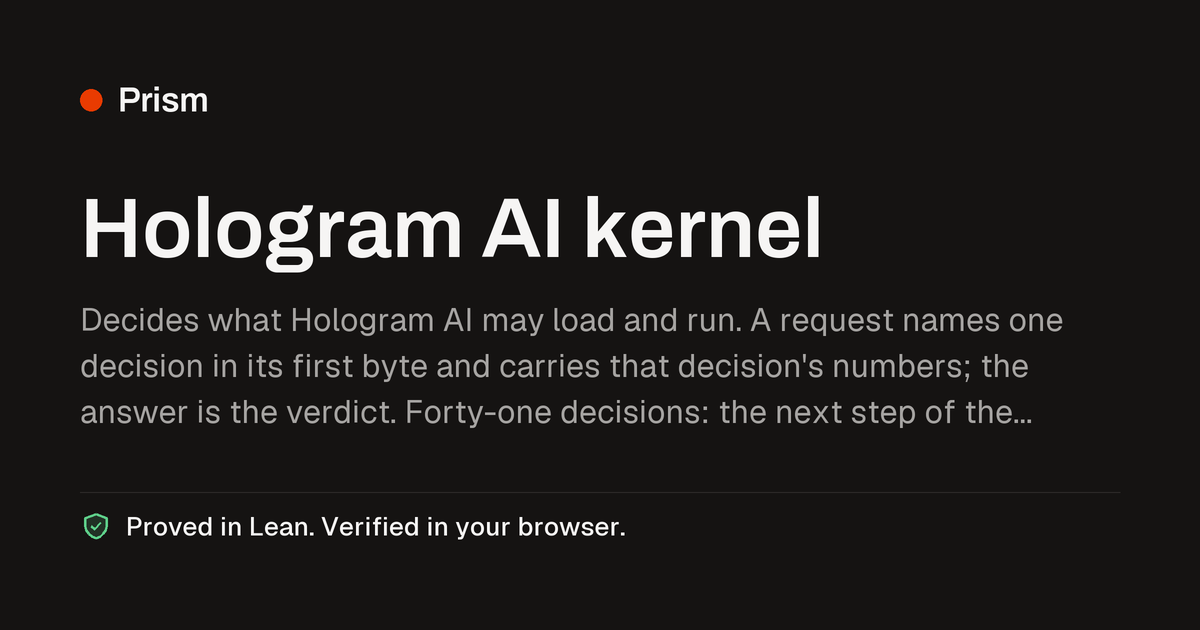
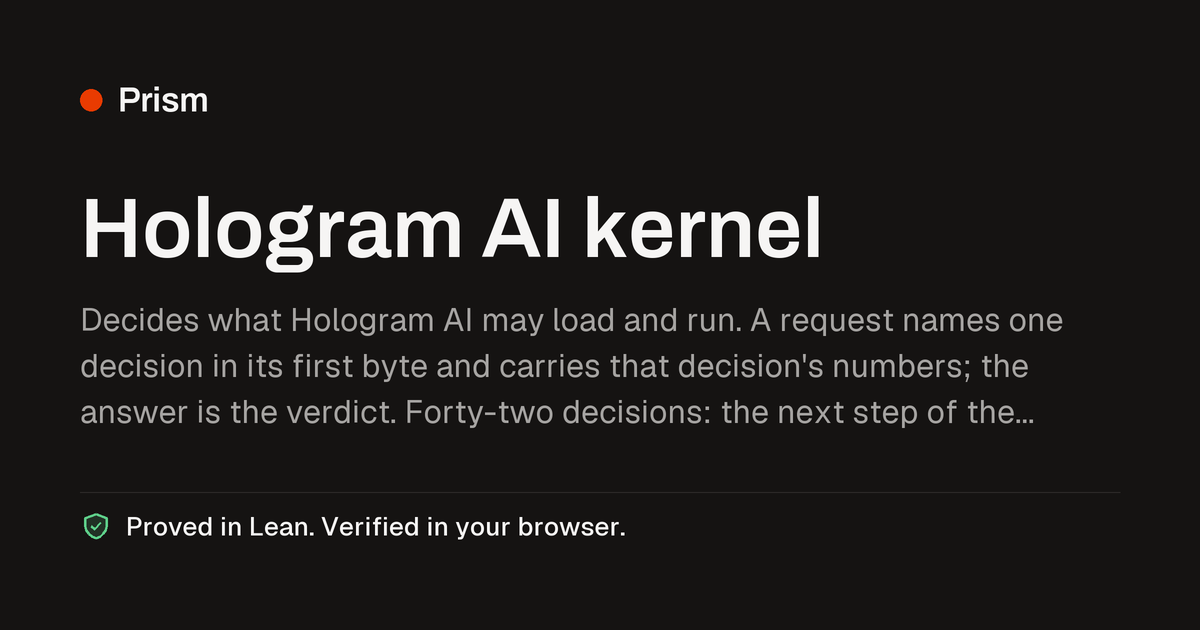
Decide the integer square root in the kernel (KN-43, decision 43)
RMS and layer norms divide by a floor square root, which is exact on
integers. Decision 43 takes a value below 2^62 and a claimed root below 2^31
in 13 bytes and answers exact when root^2 <= value < (root + 1)^2;
root_ok_decides proves that is all it accepts. The bounds are checked before
any square is formed, so no number passes 64 bits. Uniqueness of the root
needs products of two variables and is argued, not stated.

Changed region(s): [[0.4008, 0.6333, 0.8633, 0.6937]]

diff --git a/site/card.html b/site/card.html
@@ -44,6 +44,7 @@
     <option value="38">39. Declared narrowing</option>
     <option value="39">40. Row recombination</option>
     <option value="40">41. Requantised inputs</option>
+    <option value="41">43. Square root</option>
   </select>
   <p id="asks" class="asks">May this step be taken, and where does it lead?</p>
   <div id="fields" class="fields">
@@ -2768,6 +2769,27 @@
       "module": "Requant",
       "name": "Requantised inputs",
       "tag": 41
+    },
+    {
+      "asks": "Is this the floor square root of this value?",
+      "fields": [
+        {
+          "at": 1,
+          "name": "Value",
+          "value": 1000000,
+          "width": 8
+        },
+        {
+          "at": 9,
+          "name": "Claimed root",
+          "value": 1000,
+          "width": 4
+        }
+      ],
+      "length": 13,
+      "module": "Root",
+      "name": "Square root",
+      "tag": 43
     }
   ],
   "request": 81

diff --git a/app/src/Kernel.lex.tex b/app/src/Kernel.lex.tex
@@ -45,13 +45,14 @@
 \importmodule{Kernel.Trim}
 \importmodule{Kernel.Address}
 \importmodule{Kernel.Integer}
+\importmodule{Kernel.Root}
 \title{Text application model}
 \begin{semanticmodule}
 definition{
   name: route,
   parameters: [tag : Nat, value : Bytes],
   result: Bytes,
-  body: (if (tag <=? 17) then (if (tag =? 5) then (Kernel.Admission::admissionAnswer value) else (if (tag =? 6) then (Kernel.Range::rangeAnswer value) else (if (tag =? 8) then (Kernel.Bucket::bucketAnswer value) else (if (tag =? 9) then (Kernel.Generation::generationAnswer value) else (if (tag =? 2) then (Kernel.Preflight::preflightAnswer value) else (if (tag =? 4) then (Kernel.Tier::tierAnswer value) else (if (tag =? 11) then (Kernel.Shape::shapeAnswer value) else (if (tag =? 7) then (Kernel.Trim::trimAnswer value) else (if (tag =? 3) then (Kernel.Plan::planAnswer value) else (if (tag =? 1) then (Kernel.Journey::journeyAnswer value) else (if (tag =? 10) then (Kernel.Operators::operatorAnswer value) else (if (tag =? 12) then (Kernel.Backend::backendAnswer value) else (if (tag =? 13) then (Kernel.Blocks::blockAnswer value) else (if (tag =? 14) then (Kernel.Pick::pickAnswer value) else (if (tag =? 15) then (Kernel.Penalty::penaltyAnswer value) else (if (tag =? 16) then (Kernel.Speculate::speculateAnswer value) else (if (tag =? 17) then (Kernel.Quant::quantAnswer value) else (prim utf8_encode "invalid request" : Bytes)))))))))))))))))) else (if (tag =? 18) then (Kernel.Opnames::opnameAnswer value) else (if (tag =? 19) then (Kernel.Family::familyAnswer value) else (if (tag =? 20) then (Kernel.Nbits::nbitsAnswer value) else (if (tag =? 21) then (Kernel.Precision::precisionAnswer value) else (if (tag =? 22) then (Kernel.Device::deviceAnswer value) else (if (tag =? 23) then (Kernel.Chunks::chunkAnswer value) else (if (tag =? 24) then (Kernel.Source::sourceAnswer value) else (if (tag =? 25) then (Kernel.Stop::stopAnswer value) else (if (tag =? 26) then (Kernel.Evict::evictAnswer value) else (if (tag =? 27) then (Kernel.Reuse::reuseAnswer value) else (if (tag =? 28) then (Kernel.Manifest::manifestAnswer value) else (if (tag =? 29) then (Kernel.Exact::exactAnswer value) else (if (tag =? 30) then (Kernel.Determinism::classAnswer value) else (if (tag =? 31) then (Kernel.Receipt::receiptAnswer value) else (if (tag =? 32) then (Kernel.Probe::probeAnswer value) else (if (tag =? 33) then (Kernel.Share::shareAnswer value) else (if (tag =? 34) then (Kernel.Block::blockCheckAnswer value) else (if (tag =? 35) then (Kernel.Address::addressAnswer value) else (if (tag =? 36) then (Kernel.Integer::integerAnswer value) else (if (tag =? 37) then (Kernel.Scale::scaleAnswer value) else (if (tag =? 38) then (Kernel.Codec::codecAnswer value) else (if (tag =? 39) then (Kernel.Narrow::narrowAnswer value) else (if (tag =? 40) then (Kernel.Rows::rowsAnswer value) else (if (tag =? 41) then (Kernel.Requant::rqAnswer value) else (prim utf8_encode "invalid request" : Bytes)))))))))))))))))))))))))),
+  body: (if (tag <=? 17) then (if (tag =? 5) then (Kernel.Admission::admissionAnswer value) else (if (tag =? 6) then (Kernel.Range::rangeAnswer value) else (if (tag =? 8) then (Kernel.Bucket::bucketAnswer value) else (if (tag =? 9) then (Kernel.Generation::generationAnswer value) else (if (tag =? 2) then (Kernel.Preflight::preflightAnswer value) else (if (tag =? 4) then (Kernel.Tier::tierAnswer value) else (if (tag =? 11) then (Kernel.Shape::shapeAnswer value) else (if (tag =? 7) then (Kernel.Trim::trimAnswer value) else (if (tag =? 3) then (Kernel.Plan::planAnswer value) else (if (tag =? 1) then (Kernel.Journey::journeyAnswer value) else (if (tag =? 10) then (Kernel.Operators::operatorAnswer value) else (if (tag =? 12) then (Kernel.Backend::backendAnswer value) else (if (tag =? 13) then (Kernel.Blocks::blockAnswer value) else (if (tag =? 14) then (Kernel.Pick::pickAnswer value) else (if (tag =? 15) then (Kernel.Penalty::penaltyAnswer value) else (if (tag =? 16) then (Kernel.Speculate::speculateAnswer value) else (if (tag =? 17) then (Kernel.Quant::quantAnswer value) else (prim utf8_encode "invalid request" : Bytes)))))))))))))))))) else (if (tag =? 18) then (Kernel.Opnames::opnameAnswer value) else (if (tag =? 19) then (Kernel.Family::familyAnswer value) else (if (tag =? 20) then (Kernel.Nbits::nbitsAnswer value) else (if (tag =? 21) then (Kernel.Precision::precisionAnswer value) else (if (tag =? 22) then (Kernel.Device::deviceAnswer value) else (if (tag =? 23) then (Kernel.Chunks::chunkAnswer value) else (if (tag =? 24) then (Kernel.Source::sourceAnswer value) else (if (tag =? 25) then (Kernel.Stop::stopAnswer value) else (if (tag =? 26) then (Kernel.Evict::evictAnswer value) else (if (tag =? 27) then (Kernel.Reuse::reuseAnswer value) else (if (tag =? 28) then (Kernel.Manifest::manifestAnswer value) else (if (tag =? 29) then (Kernel.Exact::exactAnswer value) else (if (tag =? 30) then (Kernel.Determinism::classAnswer value) else (if (tag =? 31) then (Kernel.Receipt::receiptAnswer value) else (if (tag =? 32) then (Kernel.Probe::probeAnswer value) else (if (tag =? 33) then (Kernel.Share::shareAnswer value) else (if (tag =? 34) then (Kernel.Block::blockCheckAnswer value) else (if (tag =? 35) then (Kernel.Address::addressAnswer value) else (if (tag =? 36) then (Kernel.Integer::integerAnswer value) else (if (tag =? 37) then (Kernel.Scale::scaleAnswer value) else (if (tag =? 38) then (Kernel.Codec::codecAnswer value) else (if (tag =? 39) then (Kernel.Narrow::narrowAnswer value) else (if (tag =? 40) then (Kernel.Rows::rowsAnswer value) else (if (tag =? 41) then (Kernel.Requant::rqAnswer value) else (if (tag =? 43) then (Kernel.Root::rootAnswer value) else (prim utf8_encode "invalid request" : Bytes))))))))))))))))))))))))))),
   axioms: [Quot.sound, propext]
 }
 

diff --git a/crates/conformance/tests/kernel.rs b/crates/conformance/tests/kernel.rs
@@ -3224,7 +3224,7 @@ fn kernel_kn_41() {
     assert_routed(41, "Kernel.Requant::rqAnswer");
 }
 
-/// `KN-43`: A claimed integer square root of a value of up to 128 bits is confirmed exactly when its square is at most the value and the next square is above it, so a norm divides by the value's one floor root
+/// `KN-43`: A claimed integer square root of a value below 2^62 is confirmed exactly when its square is at most the value and the next square is above it, so a norm divides by the value's one floor root
 #[test]
 fn kernel_kn_43() {
     assert_proofs_are_gated();
@@ -3233,13 +3233,7 @@ fn kernel_kn_43() {
     assert_pinned(
         &proofs,
         "root_ok_decides",
-        "(((Kernel.Root::rootOk value root) = true) <-> (((Kernel.Root::rootSquare root) <= value) /\\ (value < (((Kernel.Root::rootSquare root) + (root + root)) + 1))))",
-        "propext",
-    );
-    assert_pinned(
-        &proofs,
-        "root_square_next",
-        "((Kernel.Root::rootSquare (root + 1)) = (((Kernel.Root::rootSquare root) + (root + root)) + 1))",
+        "(((Kernel.Root::rootOk value root) = true) <-> (((Kernel.Root::rootSquare root) <= value) /\\ (value < (Kernel.Root::rootSquare (root + 1)))))",
         "propext",
     );
     let found = declaration(&kernel, "rootSquare");
@@ -3249,12 +3243,14 @@ fn kernel_kn_43() {
     );
     let found = declaration(&kernel, "rootOk");
     assert!(
-        found.contains("body: (((rootSquare root) <=? value) && (value <? (((rootSquare root) + (root + root)) + 1)))"),
+        found.contains(
+            "body: (((rootSquare root) <=? value) && (value <? (rootSquare (root + 1))))"
+        ),
         "rootOk changed:\n{found}"
     );
     let found = declaration(&kernel, "rootAnswer");
     assert!(
-        found.contains("body: (if ((Foundation.Bytes::byteLength value) =? 25) then (if (rootOk (Kernel.Wire::fieldAt value 1 16) (Kernel.Wire::fieldAt value 17 8)) then (prim utf8_encode \"exact\" : Bytes) else (prim utf8_encode \"differs\" : Bytes)) else (prim utf8_encode \"invalid request\" : Bytes))"),
+        found.contains("body: (if ((((Foundation.Bytes::byteLength value) =? 13) && ((Kernel.Wire::fieldAt value 1 8) <? 4611686018427387904)) && ((Kernel.Wire::fieldAt value 9 4) <? 2147483648)) then (if (rootOk (Kernel.Wire::fieldAt value 1 8) (Kernel.Wire::fieldAt value 9 4)) then (prim utf8_encode \"exact\" : Bytes) else (prim utf8_encode \"differs\" : Bytes)) else (prim utf8_encode \"invalid request\" : Bytes))"),
         "rootAnswer changed:\n{found}"
     );
     assert_routed(43, "Kernel.Root::rootAnswer");

diff --git a/app/src/Kernel/Root.lex.tex b/app/src/Kernel/Root.lex.tex
@@ -1,0 +1,31 @@
+\begin{lexlean}{Kernel.Root}
+\useglossary{lexlean.std.bool@1.2.0}
+\useglossary{lexlean.std.nat@1.2.0}
+\useglossary{prism.arch@1.0.0}
+\importmodule{Foundation.Bytes}
+\importmodule{Kernel.Wire}
+\title{Bounded byte buffer}
+\begin{semanticmodule}
+definition{
+  name: rootSquare,
+  parameters: [root : Nat],
+  result: Nat,
+  body: (prim multiply root root : Nat)
+}
+
+definition{
+  name: rootOk,
+  parameters: [value : Nat, root : Nat],
+  result: Bool,
+  body: (((rootSquare root) <=? value) && (value <? (rootSquare (root + 1))))
+}
+
+definition{
+  name: rootAnswer,
+  parameters: [value : Bytes],
+  result: Bytes,
+  body: (if ((((Foundation.Bytes::byteLength value) =? 13) && ((Kernel.Wire::fieldAt value 1 8) <? 4611686018427387904)) && ((Kernel.Wire::fieldAt value 9 4) <? 2147483648)) then (if (rootOk (Kernel.Wire::fieldAt value 1 8) (Kernel.Wire::fieldAt value 9 4)) then (prim utf8_encode "exact" : Bytes) else (prim utf8_encode "differs" : Bytes)) else (prim utf8_encode "invalid request" : Bytes)),
+  axioms: [Quot.sound, propext]
+}
+\end{semanticmodule}
+\end{lexlean}

diff --git a/app/src/Proofs/Root.lex.tex b/app/src/Proofs/Root.lex.tex
@@ -1,0 +1,16 @@
+\begin{lexlean}{Proofs.Root}
+\useglossary{lexlean.std.bool@1.2.0}
+\useglossary{lexlean.std.nat@1.2.0}
+\useglossary{prism.arch@1.0.0}
+\importmodule{Kernel.Root}
+\title{Bounded byte buffer}
+\begin{semanticmodule}
+theorem{
+  name: root_ok_decides,
+  parameters: [value : Nat, root : Nat],
+  statement: (((Kernel.Root::rootOk value root) = true) <-> (((Kernel.Root::rootSquare root) <= value) /\ (value < (Kernel.Root::rootSquare (root + 1))))),
+  proof: linear_arithmetic{definitions: [Kernel.Root::rootOk]},
+  axioms: [propext]
+}
+\end{semanticmodule}
+\end{lexlean}

diff --git a/KERNEL-VERIFICATION.md b/KERNEL-VERIFICATION.md
@@ -98,6 +98,9 @@ The inherited gates and their own planted defects are in
 | The quotient witness is the input's quotient by the step | the guest checks `q * step <= value < q * step + step`, so a wrong witness is refused; that this pins `q` uniquely is the division algorithm, not stated as a theorem, because the product is not linear | argued, not proved |
 | `rqDownCode` (the code as a function of input and step) gives the code the check accepts | not stated: it needs quotient and remainder facts for a variable divisor, outside `linear_arithmetic`; EN-39 (branch `exact-codecs`) checks, for every input it writes, that the code is `rqDownCode`'s, passes the transcribed `rqElementOk`, and is `quantise_with`'s | tested, not proved |
 | No number decision 41 computes passes 64 bits | the guards in `rqElementOk` and `rqLargest` (mantissa below `2^24`, quotient at most 32767, a down shift at most 39 and an up shift at most 15, each inside an `if` so no product is formed before them), pinned by `kernel_kn_41` | tested, not proved |
+| `KN-43`: a claimed root is `exact` exactly when its square is at most the value and the value is below the square of the root plus one, which defines the floor square root | `root_ok_decides`, checked by Lean on the hosted verifier | proved (hosted verifier) |
+| At most one root is accepted for a value | squares grow with the root, so two accepted roots are equal; this needs products of two variables, outside `linear_arithmetic`, and `simplify` may not unfold the runtime's product, so it is argued, not stated as a theorem | argued, not proved |
+| No number decision 43 computes passes 64 bits | the guard in `rootAnswer`: a value below `2^62` and a root below `2^31`, checked before any square is formed, so `(root + 1)^2` is at most `2^62` | pinned by `kernel_kn_43` |
 | Decision 41 answers as its definition does in the compiled guest | not run: building a holo on this machine has moved to `prism-code build --remote github`, which pushes | not tested |
 | Decisions 38 and 39 answer their examples in the compiled guest | none are replayed, for the reason given for decisions 18 to 28 | not tested |
 | Decisions 18 to 28 answer their examples in the compiled guest | none are replayed: the application's example list is at the nesting depth the proof language reads (108 examples), as it was for decisions 12 to 17. The answers were worked by a second implementation outside the repository and are not gate evidence | not tested |
@@ -1193,6 +1196,30 @@ day on the hosted verifier, the whole of `Kernel.Requant` and `Proofs.Requant`,
 | --- | --- |
 | an input just past half a step counted down to `q + 1` and the up case widened to `<=` | rejected: `Lean rejected ... Proofs.Requant (error): omega could not prove the goal`, in `rq_down_half_step` and `rq_down_one_code` |
 | the largest-power check made `<=` | rejected: the same, in `rq_largest_down_decides` |
+
+## KN-43, the integer square root
+
+RMS and layer norms divide by a square root. On integers the floor square root
+is exact, so decision 43 checks it as exact rather than admitting it as a
+narrowing. A 13-byte request carries a value (8 bytes, below `2^62`) and a
+claimed root (4 bytes, below `2^31`). The answer is `exact` when
+`root^2 <= value < (root + 1)^2`, `differs` otherwise, and `invalid request`
+for any other length or a number past its bound.
+
+The bound is written as the square of `root + 1`, not as
+`root^2 + 2 root + 1`. The second form needs `(r + 1)^2` expanded, which
+`simplify` cannot do because it may not unfold the runtime's product, so a
+theorem tying the two was not provable here. With the next root's square
+written directly, `root_ok_decides` is linear in the two squares.
+
+### The pinned test: `kernel_kn_43`
+
+| Planted defect | Result |
+| --- | --- |
+| a value equal to the next square accepted (`<=?` for `<?`) | rejected: `rootOk changed` |
+| a root up to `2^32` admitted, past the 64-bit guard | rejected: `rootAnswer changed` |
+| decision 43 routed to decision 41's answer | rejected: `decision 43 must be routed to Kernel.Root::rootAnswer` |
+| none | passed |
 
 ## The examples in the compiled guest
 

diff --git a/CONFORMANCE.md b/CONFORMANCE.md
@@ -139,7 +139,7 @@ not forbid `unwrap`, `expect` and `panic!` (R5).
 | `KN-39` | `build` | A step that narrows a value, exp, reciprocal square root, sine and cosine, SiLU, GELU or requantising, is accepted exactly when its input is at most 16 bits so its table is finite, its output is 1 to 32 bits, and its certified error is within its declared bound |
 | `KN-40` | `build` | One link of a row's exact recombination is confirmed exactly when the partial before it plus its up to six terms, each a unit sum times a scale mantissa times a power of two, signed, equals the claimed partial after it; a link whose numbers could pass 64 bits is too wide, and two confirmed links compose, so a chain of them confirms the plain sum |
 | `KN-41` | `build` | Up to five inputs of one group are confirmed put on sixteen-bit codes exactly when the group's power of two is the largest that keeps its largest input within 32767, and each code is its input at that power rounded to the nearest, ties to even, so within half a step of it; an input far below the step is code zero |
-| `KN-43` | `build` | A claimed integer square root of a value of up to 128 bits is confirmed exactly when its square is at most the value and the next square is above it, so a norm divides by the value's one floor root |
+| `KN-43` | `build` | A claimed integer square root of a value below 2^62 is confirmed exactly when its square is at most the value and the next square is above it, so a norm divides by the value's one floor root |
 | `KN-37` | `build` | One group's sum times its IEEE half scale is confirmed exact exactly when the claimed sign and magnitude, in units of 2^-24, equal the product the kernel recomputes from the half's exponent and fraction, a zero product is never negative, and a scale that is an infinity or a NaN is answered not finite |
 
 ## Public failures
